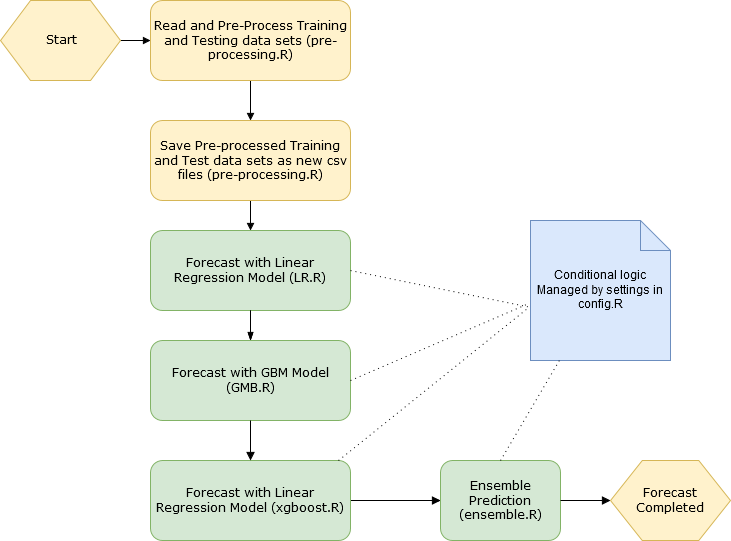
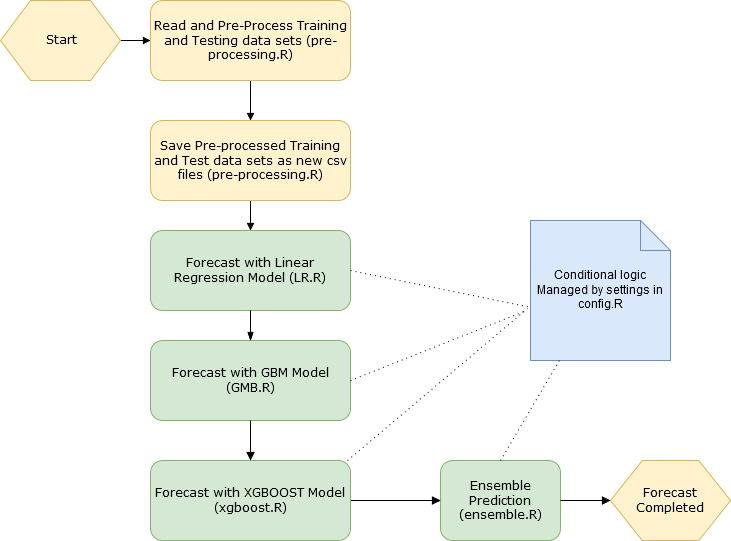
!U: updated Readme documentation and workflow diagram

Changed region(s): [[0.2107, 0.8872, 0.4815, 0.9464], [0.6922, 0.5619, 0.7223, 0.5915]]

diff --git a/README.md b/README.md
@@ -11,7 +11,8 @@ While working on DVC pipeline for this project, the respective DVC tutorial for 
 
 # Dependencies
 In order to try the materials of this repo in your environment, the following pre-requisites should be installed on your machine
-- DVC itself
+- Python 3 runtime environment for your OS (it is required to run DVC commands in the batch files)
+- DVC itself (see https://dataversioncontrol.com/, Installation section on how to install DVC on your machine)
 - Latest version of R runtime environment 
 - Latest version of git command-line client application
 
@@ -27,6 +28,12 @@ The next section below will explain how these challenges are addressed in the de
 ML pipeline for this project is presented in the diagram below
 
 [[https://github.com/gvyshnya/DVC_R_Ensemble/blob/master/logical_workflow.png]]
+
+As you can see, the essential implementation of the solution is as follows
+- _preprocessing.R_ handles all aspects of data manipulations and pre-processing (reading training and testing data sets, removing outliers, imputing NAs etc.) as well as storing refined training and testing set data as files to reuse by model scripts
+- 3 model scripts implement training and forecasting algorithms for each of the models selected for this project (_LR.R, GBM.R, xgboost.R_)
+- _ensemble.R_ is responsible for the weighted ensemble prediction and the final output of the Kaggle submission file
+- _config.R_ is responsible for all of the conditional logic switches needed in the pipeline (it is included as a source to all of modelling and ensemble prediction scripts, to get this done)
 
 # Files in This Repo 
 You will find the following files and folders in this repo
@@ -64,11 +71,18 @@ This file is responsible for several initial steps of the ML pipeline for this p
 - pre-processing of the initial training and testing data sets (imputation of NAs, elimination of outliers from the training set)
 - saving pre-processed training and testing data sets as new csv files for future re-use by ML models
 
-Note: due to the nature of the data for this ML prediction competition, there was no need for additional feature engineering. Therefore there is no a dedicated pipeline steps managing it.
+**Note**: due to the nature of the data for this ML prediction competition, there was no need for additional feature engineering. Therefore there is no a dedicated pipeline steps managing it.
 
 This script can be launched from a command line with the command as follows
 
-_**Script command to be inserted**_
+`Rscript --vanilla code/pre-processing.R "Str1" "Str2" "Str4" "Str4"`
+
+Where
+# 4 arguments are required 
+# _Str1_ - input file name for raw traing data csv (by default, the DVC pipeline script will download it to 'data/wine.csv' - see below)
+# _Str2_ - input file name for raw testing data csv (by default, the DVC pipeline script will download it to 'data/wine_test.csv' - see below)
+# _Str3_ - output file name for imputed training data csv (for example, 'data/train_imputed.csv')
+# _Str4_ - output file name for imputed testing data csv (for example, 'data/test_imputed.csv')
 
 ### LR.R
 This file implements the following capabilities
@@ -79,13 +93,13 @@ This file implements the following capabilities
 
 This script can be launched from a command line with the command as follows
 
-`Rscript --vanilla "code/LR.R" "str1" "str2" "float1" "int1" "str3" code/config.R`
+`Rscript --vanilla "code/LR.R" "Str1" "Str2" "Float1" "Int1" "Str3" code/config.R`
 
 Where 
 - _Str1_ – relative path to the input file name for imputed training data csv (recommended default value: "_data/training_imputed.csv_") – such file is generated by _pre-processing.R_ on the earlier step of the ML pipeline
 - _Str2_ - input file name for imputed testing data csv (recommended default value: "data/testing_imputed.csv") – such file is generated by pre-processing.R on the earlier step of the ML pipeline
 - _Float1_ – the number (in 0..1 interval) to specify the split ratio of the training set on true training vs. validation parts (recommended value is 0.7)
-- _Int1_ – the integer value to set the value of seed , to ensure reproducible modelling results (it can be any non-negative integer number, for example 825)
+- _Int1_ – the integer value to set the value of seed, to ensure reproducible modelling results (it can be any non-negative integer number, for example 825)
 - _Str3_ – relative path to the result submission csv file (in a ready-for-Kaggle-upload format); recommended value is "_data/submission_LR.csv_"
 - _code/config.R_ - the configuration file of the solution in a format of R script module (please use _config.R_ provided)
 
@@ -103,13 +117,27 @@ This file implements the following capabilities
 - Output the prediction results as a Kaggle submission file of a format specified by the requirements to the completion per https://inclass.kaggle.com/c/pred-411-2016-04-u3-wine/
 
 This script can be launched from a command line with the command as follows
-_**Script command to be inserted**_
+
+`Rscript --vanilla code/GBM.R "Str1" "Str2" "Int1" "Int2" "Int3" "Int4" "Str3" code/config.R`
+Rscript --vanilla code/GBM.R data/train_imputed.csv data/test_imputed.csv 5000 5 4 25 output/submission_gbm.csv code/config.R
+
+Where
+ 
+- _Str1_ - input file name for imputed training data csv (for example, 'data/train_imputed.csv' - it should be located where preprocessing.R output it)
+- _Str2_ - input file name for imputed testing data csv (for example, 'data/test_imputed.csv' - it should be located where preprocessing.R output it)
+- _Int1_ - number of trees to generate in GBM search (integer)
+- _Int2_ - depth of GBM Search (integer)
+- _Int3_ - number of folds in the internal GBM cross-validation (integer)
+- _Int4_ - minimum number of observations in a bucket in order to make another tree split in GBM search (integer)
+- _Str3_ - output file name for the result submission csv file (in a ready-for-Kaggle-upload format), for example 'output/submission_gbm.csv'
+- the last parameter is the configuration file of the solution implemented as an R script (this is 'code/config.R' by default)
 
 **Notes:**
 
 - Training and predictions are performed in “cluster-then-predict” framework since the observations in both the training and testing sets allow for clear clustering the data by a meaningful business factor (wines starred by experts and wines not starred by any of the experts)
 - Cross-validation efforts had been taken to tune the parameters of GBM model itself as well as to prove cluster-then-predict setup yields better prediction accuracy vs. using the entire training and testing sets (however, the cross-validation scripts are not the parts of ML pipeline directly, and thus they are not the part of this repo)
 - Please refer below as for manual editing config.R to tweak the run-time parameters for the ML solution/pipeline
+- Please review http://www.inside-r.org/packages/cran/gbm/docs/gbm for more details on each of the GBM-specific int parameters above
 
 ### xgboost.R
 This file implements the following capabilities
